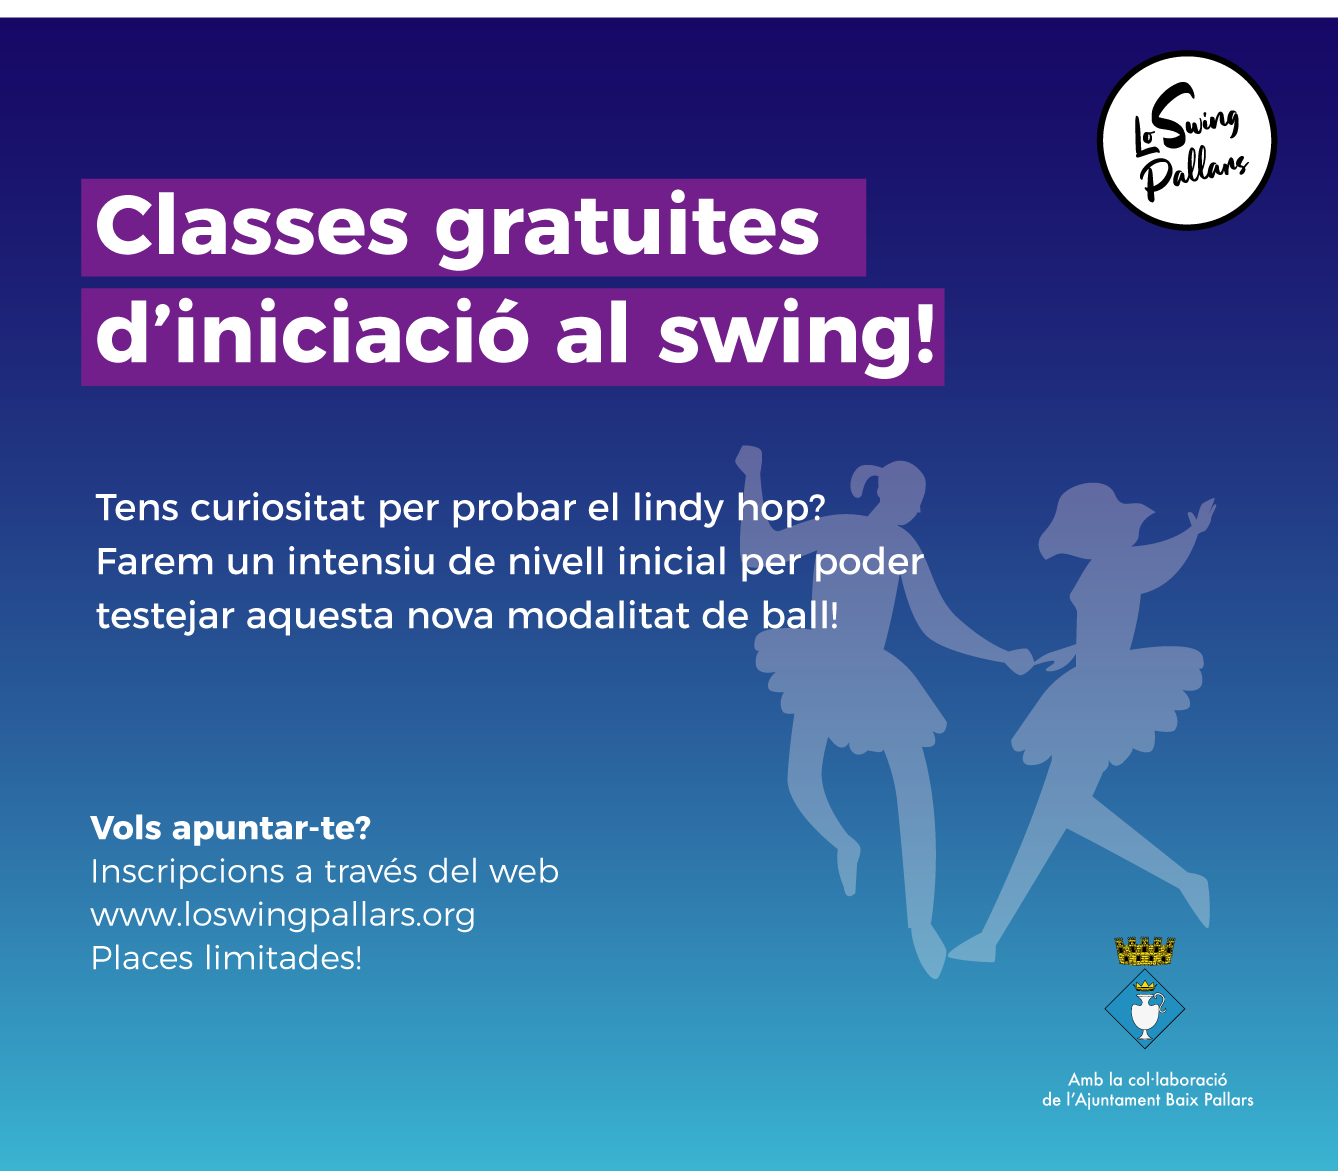
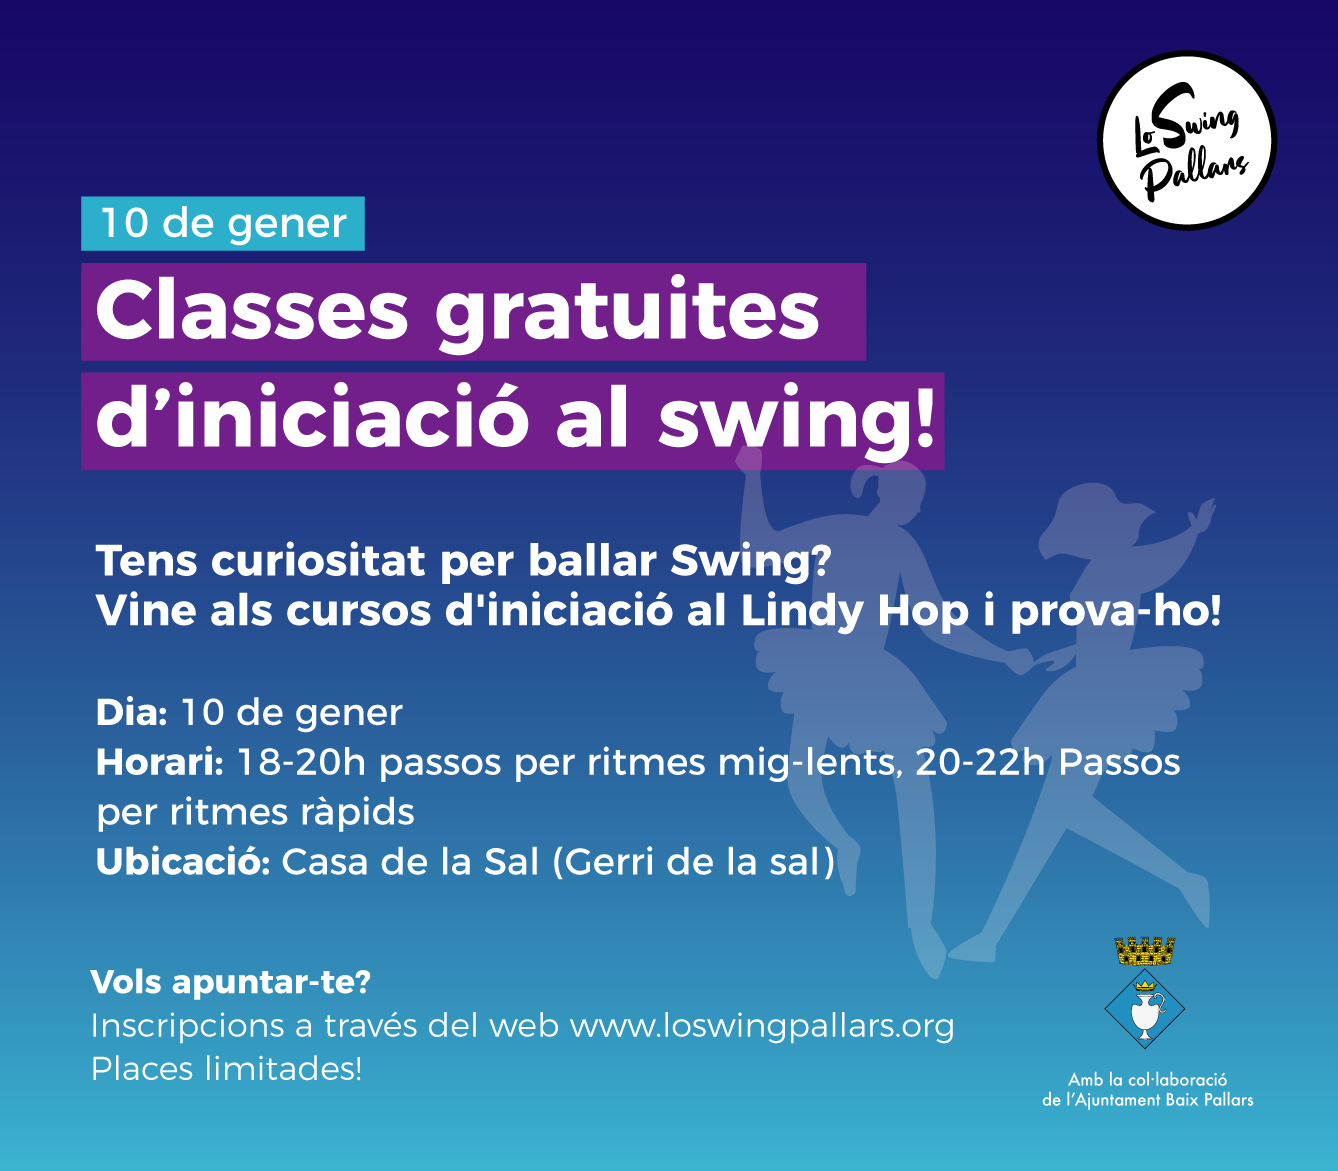
GM Actualitzacions

Changed region(s): [[0.0613, 0.1537, 0.9193, 0.5534], [0.0613, 0.5841, 0.8886, 0.9223], [0.0, 0.0, 1.0, 0.0307]]

diff --git a/index.html b/index.html
@@ -146,9 +146,9 @@
 		<div class="container margin-t-md cf">
       <div class="box-2">       
         <h3 class="margin-b-sm">Curs d'iniciació al Lindy Hop</h3>
-        <p>Llancem un nou curs d'iniciació al swing per totes aquelles persones que vulguin descobrir què és el swing. S'ha dividit la classe en dues parts i podeu assistir a les dues o a una. En la primera part (2h) aprendrem els passos bàsics per poder ballar cançons de rimes mig-lents i la segona part (2h) aprendrem uns altres passos adequats per ritmes ràpids.
-        Aquest curs és adequat per totes aquelles persones que tenen curiositat sobre què és el swing o Volen aprendre els passos bàsics però no tens temps per fer el curs regular.
-        Les places per al curs son limitades!</p>
+        <p>Llancem un nou curs d'iniciació al Lindy Hop (Swing) per totes aquelles persones que vulguin descobrir aquest estil de ball. El curs consta de dues parts: en la primera (2h) aprendrem els passos bàsics per poder ballar cançons de rimes mig-lents i en la segona (2h) aprendrem uns altres passos adequats per ritmes ràpids. Podeu venir a una o a les dues sessions.
+        Si et pica la curiositat de ballar Swing però no tens temps per fer un curs regular o simplement vols provar... Aquests cursos son per tu! Les classes s'impartiran a la Casa de la Sal (Gerri de la Sal).
+        Les places son limitades!</p>
         <p><b>Dia del curs:</b></p>
         <p>10 de gener. 18-20h classe de ritmes mig-lents. De 20-22h classe de ritmes ràpids</p>
          <a class="a-button inline-block" href="https://forms.gle/JEfb4XVbvZxRdyDN8" target="_blank">Inscripció a l'intensiu de swing</a>
@@ -163,8 +163,8 @@
       <div class="box-2">       
         <h3 class="margin-b-sm">Curs Regular de Lindy Hop</h3>
 		    <p>Seran classes de dues hores els divendres cada dues setmanes durant dos mesos i hi haurà dos grups, un de 18-20h i l'altre de 20-22h.
-  			Serà condició necessària haver cursat els dos intensius (Triples i Kicks) per apuntar-se al curs regular. Repetirem els dos intensius abans de l'inici del curs regular perque us pugueu posar al dia els que no hagueu pogut assistir a alguna de les edicions anteriors dels intensius (ho haureu d'indicar quan ompliu el formulari).
-  			Les places per al curs son limitades!</p>
+  			Serà condició necessària haver cursat els dos intensius (Triples i Kicks) per apuntar-se al curs regular. Repetirem els dos intensius abans de l'inici del curs regular perque us pugueu posar al dia els que no hagueu pogut assistir a alguna de les edicions anteriors dels intensius (ho haureu d'indicar quan ompliu el formulari). Les classes s'impartiran a la Casa de la Sal (Gerri de la Sal).
+  			Les places son limitades!</p>
   			<p><b>Dies del curs:</b></p>
   			<p>24 gener, 7 febrer, 21 febrer i 6 març. Festa final de curs 7 març</p>
   			 <a class="a-button inline-block" href="https://forms.gle/BBXhGga3roVgEkAKA" target="_blank">Inscripció curs regular</a>
@@ -183,7 +183,7 @@
           
           <h3 class="margin-b-sm">Master class Jazz Steps!</h3>
   		    <p><b>Dissabte 11 Gener de 20-21h</b></p>
-  		    <p>La Maria ens donarà una master class de Solo Jazz (Jazz Steps). Vegueu-la ballar en el festival CAPOS 2019 on va guanyar la categoria de Showcase <a href="https://www.youtube.com/watch?v=8MXueUS1fIs">VIDEO</a>. El Solo Jazz és un estil de ball individual interpretant Jazz i Swing. És enèrgic i divertit i es pot integrar quan balles en parella Lindy Hop.</p>
+  		    <p>La Maria ens donarà una master class de Solo Jazz (Jazz Steps). Vegueu-la ballar en el festival CAPOS 2019 on va guanyar la categoria de Showcase <a href="https://www.youtube.com/watch?v=8MXueUS1fIs">VIDEO</a>. El Solo Jazz és un estil de ball individual interpretant Jazz i Swing. És enèrgic i divertit i es pot integrar quan balles en parella Lindy Hop. Aquesta classe s'impartiran a la Casa de la Sal (Gerri de la Sal).</p>
           <a class="a-button inline-block" href="https://forms.gle/MDR4T8KsL1QvQnJc7" target="_blank">Inscripció</a></p>
           </div>
         <div class="box-2 centered">
@@ -198,7 +198,7 @@
           
           <h3 class="margin-b-sm">Jam d'any nou!</h3>
   		    <p><b>Dissabte 11 Gener a partir de les 21h</b></p>
-  		    <p>Després de la Master Class de Solo Jazz que ens donarà la Maria hi haurà Jam d'any nou! Punxarem música per celebrar l'entrada d'any a ritme de swing. Animeu-vos-hi!!!</p>
+  		    <p>Després de la Master Class de Solo Jazz que ens donarà la Maria hi haurà Jam d'any nou! Punxarem música per celebrar l'entrada d'any a ritme de swing. Animeu-vos-hi!!! Aquesta Jam serà a la Casa de la Sal (Gerri de la Sal).</p>
           
           </div>
         <div class="box-2 centered">
